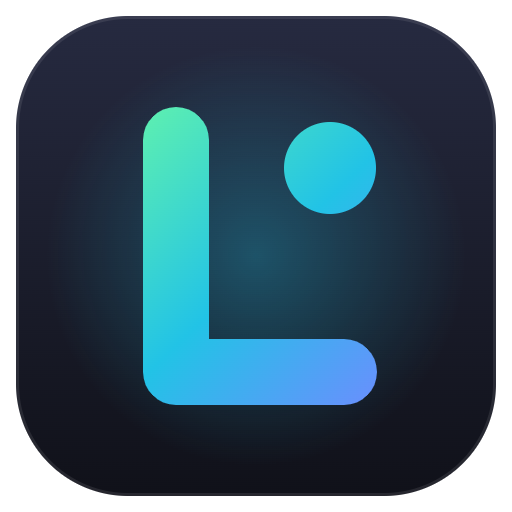
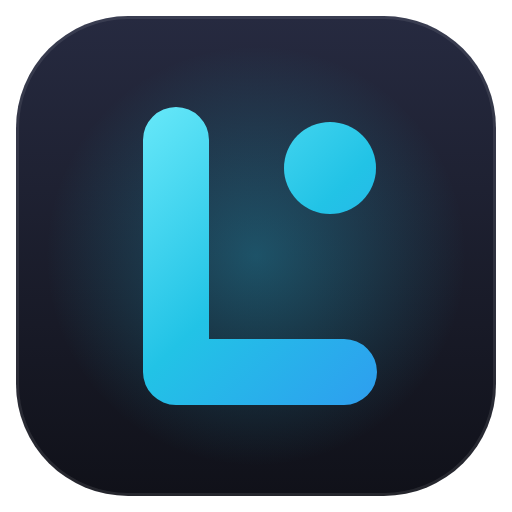
style: icone e tema em ciano proprio

Changed region(s): [[0.4375, 0.6562, 0.75, 0.8125], [0.2812, 0.1875, 0.4062, 0.5625]]

diff --git a/renderer/style.css b/renderer/style.css
@@ -37,7 +37,7 @@
   --accent-soft: rgba(34, 195, 230, .14);
   --accent-line: rgba(34, 195, 230, .5);
   --accent-ring: rgba(34, 195, 230, .32);
-  --grad: linear-gradient(135deg, #5ef0b0 0%, #22c3e6 52%, #6f8bff 100%);
+  --grad: linear-gradient(135deg, #67e8f9 0%, #22c3e6 52%, #2f9bf0 100%);
   --danger: #ff5d6c;
   --ok: #3ddc97;
   --warn: #ffbf47;
